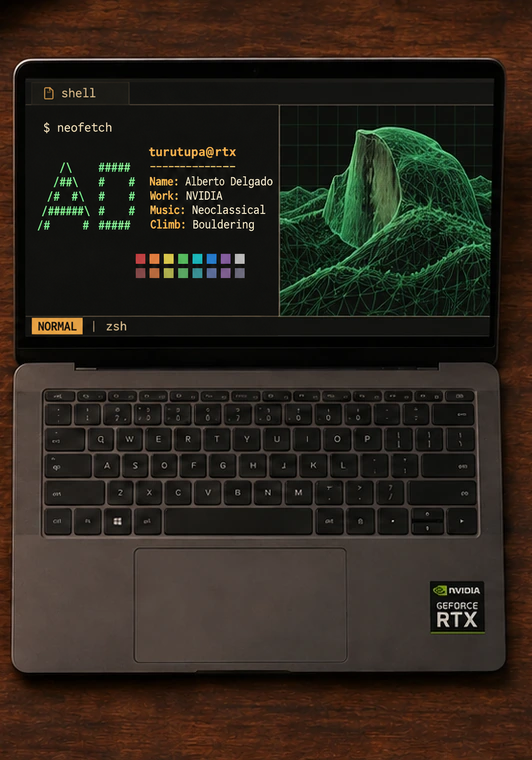
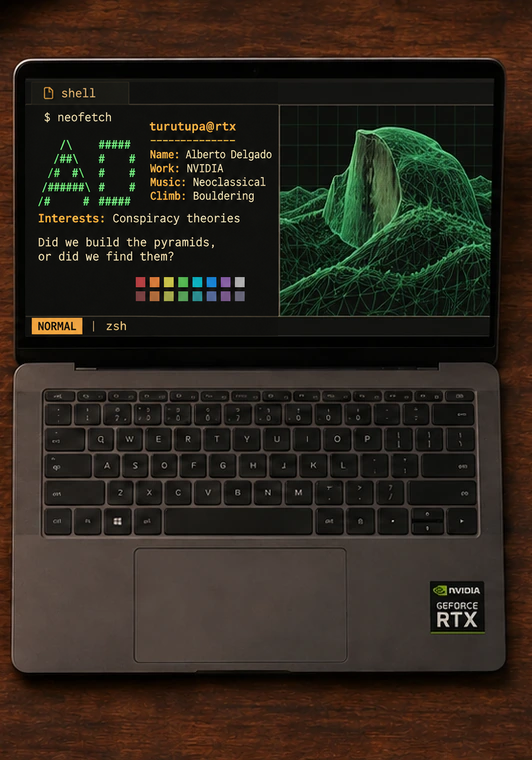
Add a favorite rabbit hole to the laptop bio

Changed region(s): [[0.0602, 0.1513, 0.5113, 0.3934], [0.0902, 0.4237, 0.1504, 0.4539], [0.2105, 0.4237, 0.2406, 0.4539]]

diff --git a/README.md b/README.md
@@ -39,6 +39,10 @@ I still love learning about computer science. My favorite tools to build are the
 
 [My writing](https://dev.to/turutupa)
 
+I love a good conspiracy theory. My favorite rabbit hole is the Younger Dryas, what came after it, and the stories people tell about that stretch of time.
+
+*Did we build the pyramids, or did we find them?*
+
 </details>
 
 <details>
